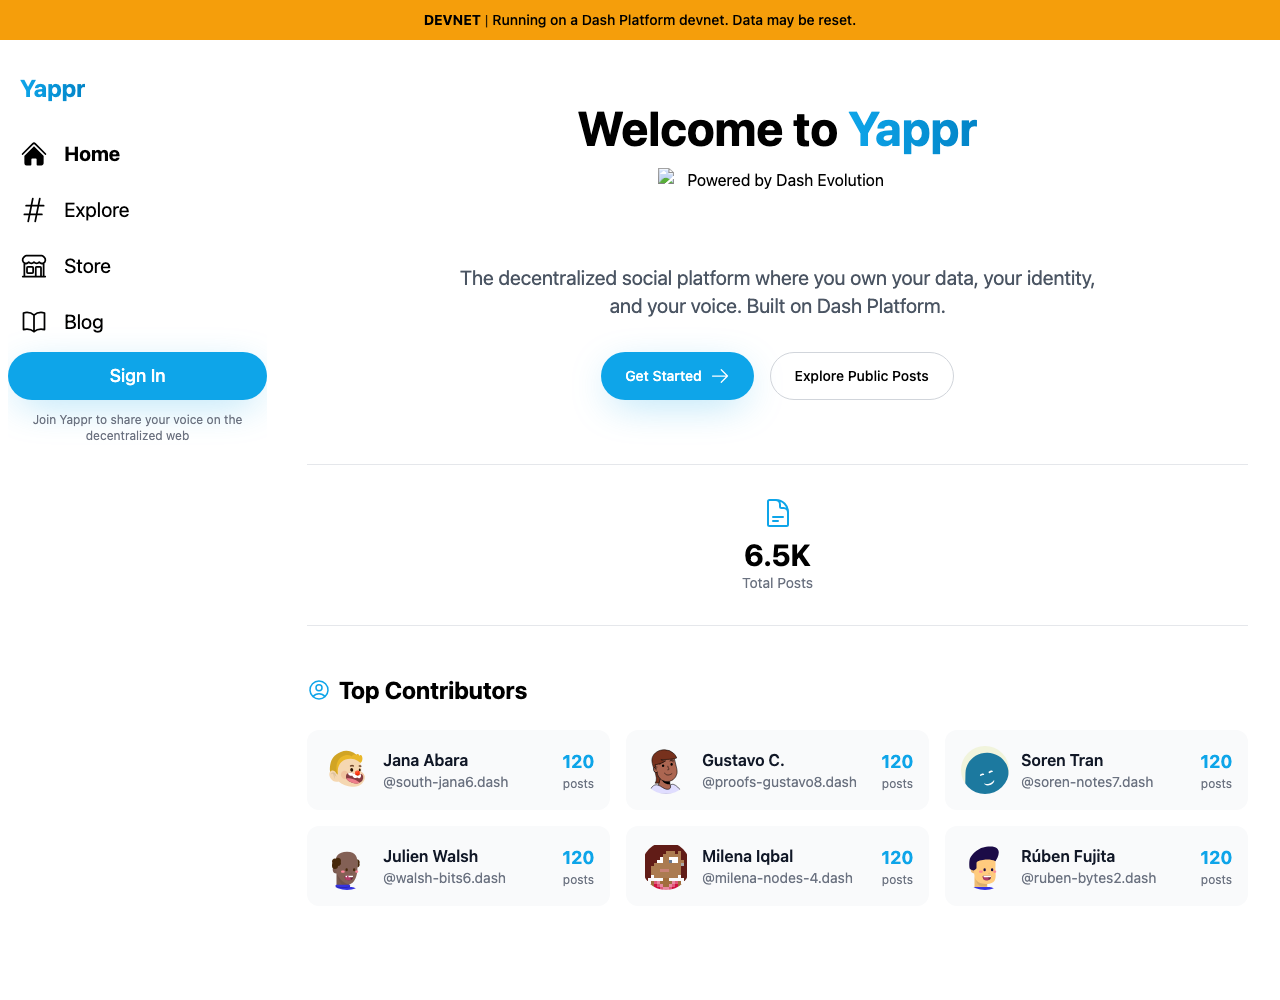
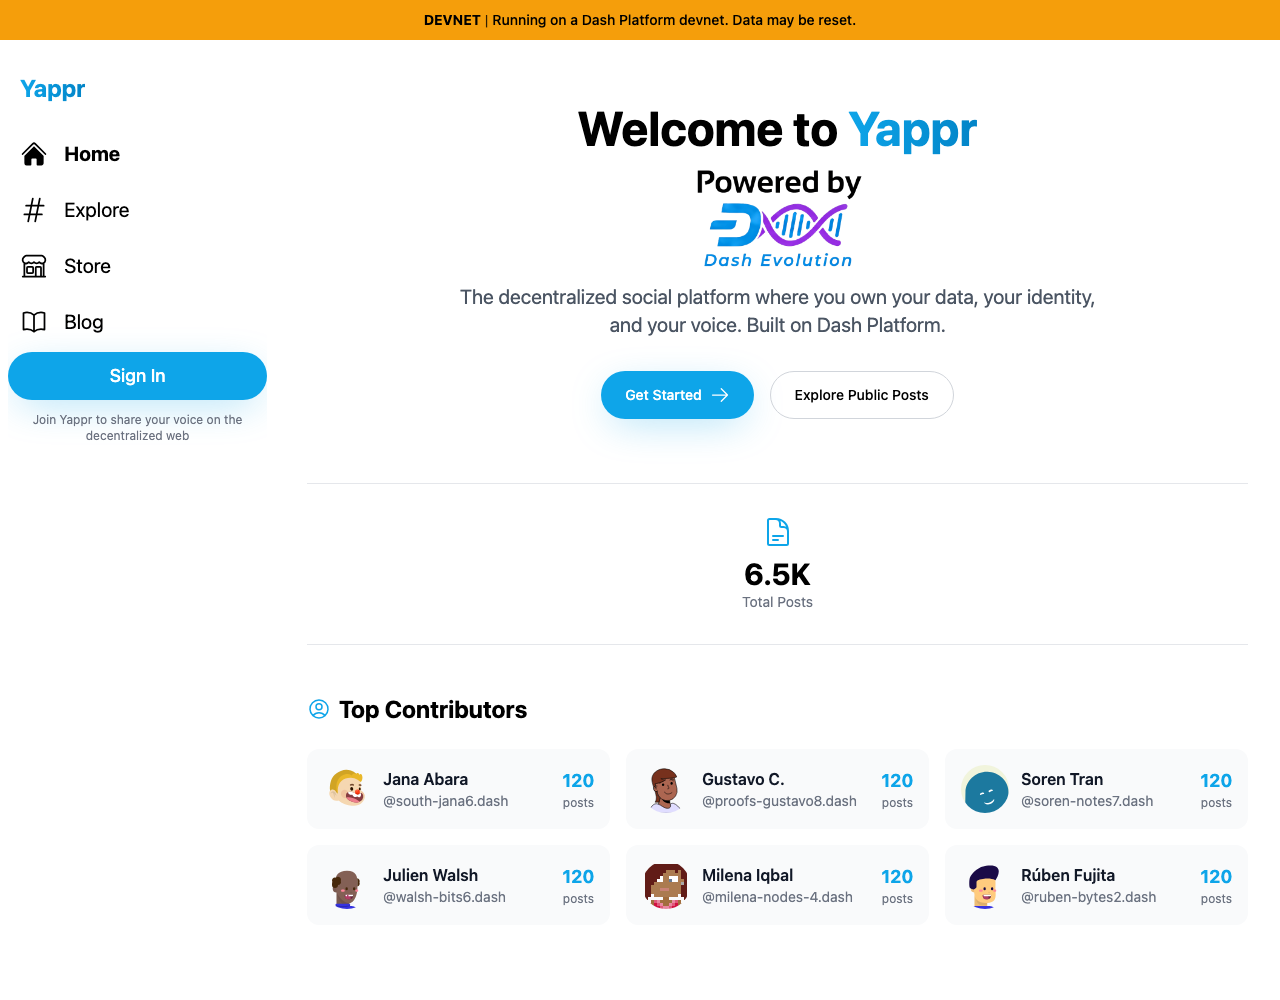
docs(yappr): align login capture asset serving with staging

diff --git a/yappr/pr-login-route-dismissal/README.md b/yappr/pr-login-route-dismissal/README.md
@@ -7,7 +7,7 @@ Clicking **Close** on the login route previously reopened the sign-in dialog. Th
 | Before — frozen staging base | `cf0efbc10b8757137063113ebbd2061e8b87d8f7` |
 | After — full PR head | `88a64b8c18a75907f15c0f054a5dde44ac410cb4` |
 
-Both revisions were built independently as static production exports with the same devnet environment; the root-path build still connects to devnet. Fresh unauthenticated Chromium contexts, 1280×1000 viewport, light theme. No identity, credential, or wallet approval was used. Screenshots show the state **after clicking Close**. Before captures wait for the real 120-second wallet no-response state so no ephemeral request QR is published; after captures were delayed during the same run. Live home statistics can change independently of this fix.
+Both revisions were built independently as static production exports with the same devnet environment; the root-path build still connects to devnet. Fresh unauthenticated Chromium contexts, 1280×1000 viewport, light theme. No identity, credential, or wallet approval was used. Screenshots show the state **after clicking Close**. Before captures wait for the real 120-second wallet no-response state so no ephemeral request QR is published; root after capture was delayed during the same run. The devnet after image was recaptured against the identical build after matching the live host's root logo asset routes. Live home statistics can change independently of this fix.
 
 ## Devnet deployment
 
@@ -15,7 +15,7 @@ Both revisions were built independently as static production exports with the sa
 | --- | --- |
 | ![Sign-in remains open after Close](before/devnet-after-close.png) | ![Close returns to devnet home with no dialog](after/devnet-after-close.png) |
 
-The existing missing landing-page logo in the devnet path is unrelated to this change and is tracked separately. It is not repaired or hidden in this evidence.
+The original evidence commit `65ea18fdfb689dc319e2834d5ab6d5e1f15e10c9` had an unrelated missing logo caused by the local capture server rejecting the root `/pbde-light.png` path. Real staging and the frozen comparison server both serve that asset successfully. This image supersedes that capture after the local server was configured to match those asset routes; application source and head revision are unchanged. See [recapture procedure](recapture.cjs).
 
 ## Root deployment
 
